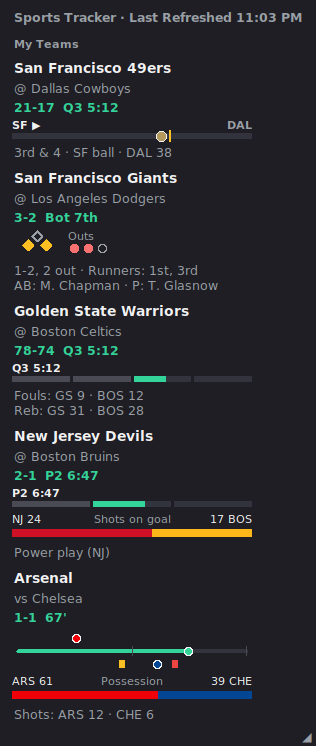
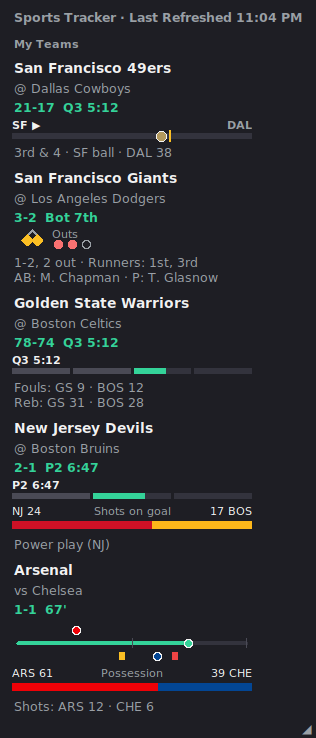
Base diamond: bases touching
Claude-Session: https://claude.ai/code/session_01J2oDKnQWBXX8cHoFmZ2HA2

diff --git a/sports-widget/sports_widget.py b/sports-widget/sports_widget.py
@@ -821,15 +821,15 @@ def run_gui():
             c.create_oval(px(g["minute"]) - 4, 18, px(g["minute"]) + 4, 26, fill="#34d399", outline=FG)
             c.pack(anchor="w", pady=(2, 0))
         elif g["kind"] == "baseball":
-            c = tk.Canvas(parent, width=130, height=32, bg=BG, highlightthickness=0)
+            c = tk.Canvas(parent, width=130, height=24, bg=BG, highlightthickness=0)
             def base(cx, cy, on):
                 r = 5
                 c.create_polygon(cx, cy - r, cx + r, cy, cx, cy + r, cx - r, cy, fill="#fbbf24" if on else BG,
                                  outline="#fbbf24" if on else DIM, width=2)
-            base(25, 7, g["bases"][1]); base(34, 16, g["bases"][0]); base(16, 16, g["bases"][2])
-            c.create_text(56, 7, text="Outs", anchor="w", fill=DIM, font=("Segoe UI", 8))
+            base(20, 6, g["bases"][1]); base(25, 11, g["bases"][0]); base(15, 11, g["bases"][2])
+            c.create_text(40, 5, text="Outs", anchor="w", fill=DIM, font=("Segoe UI", 8))
             for i in range(3):
-                c.create_oval(58 + i * 14, 15, 66 + i * 14, 23, fill="#f87171" if i < g["outs"] else BG,
+                c.create_oval(42 + i * 14, 11, 50 + i * 14, 19, fill="#f87171" if i < g["outs"] else BG,
                               outline="#f87171" if i < g["outs"] else DIM, width=1)
             c.pack(anchor="w", pady=(2, 0))
         elif g["kind"] == "football":
